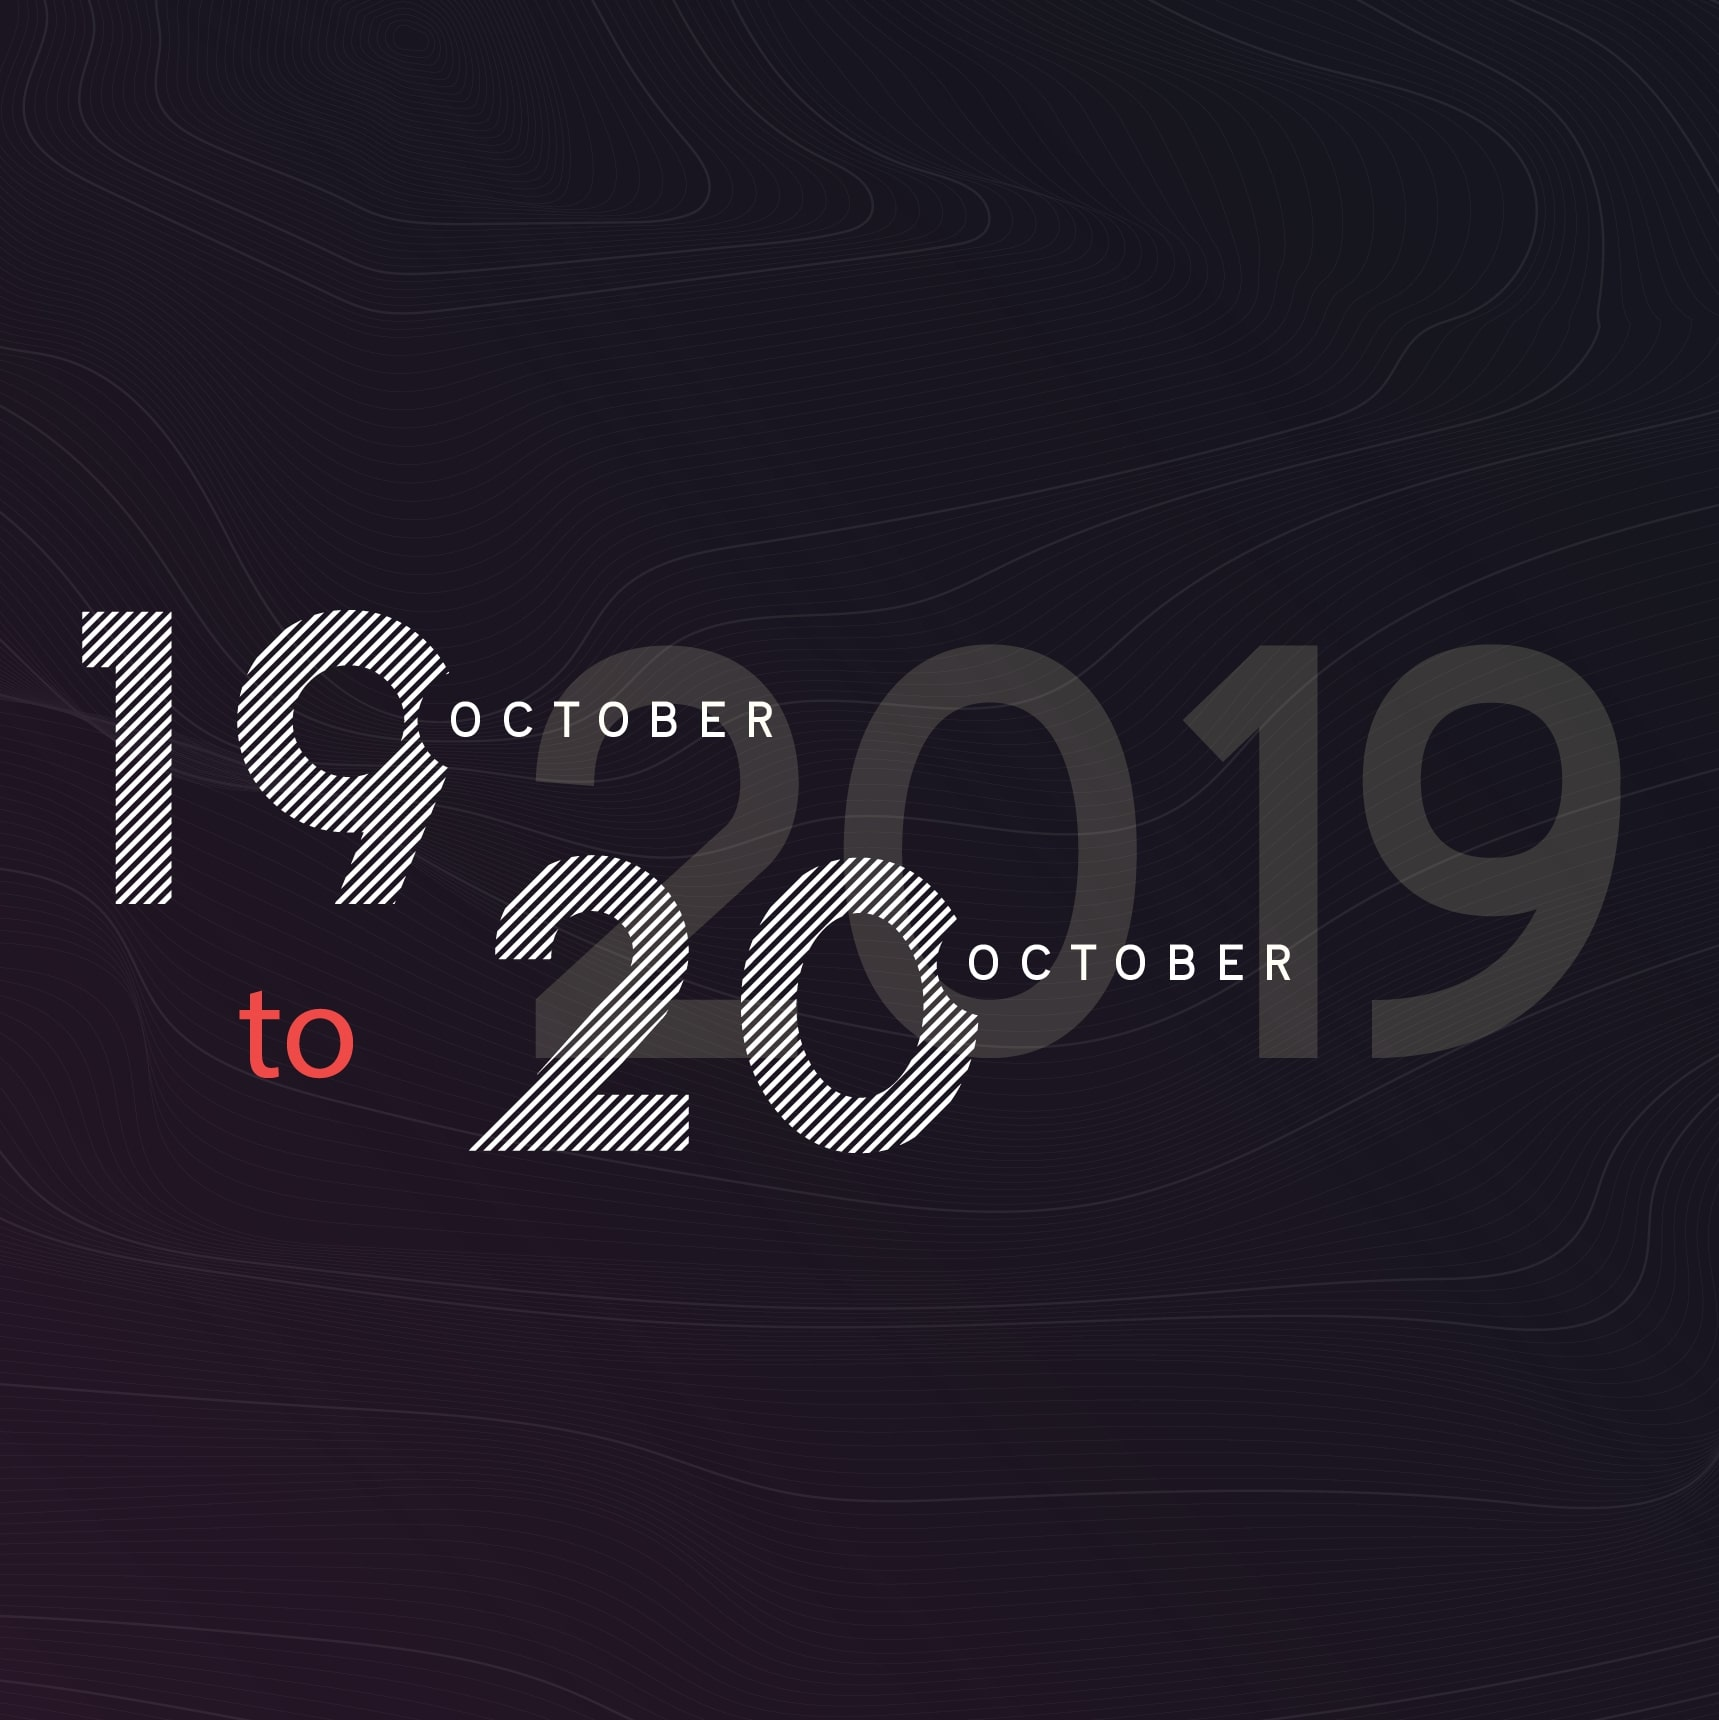
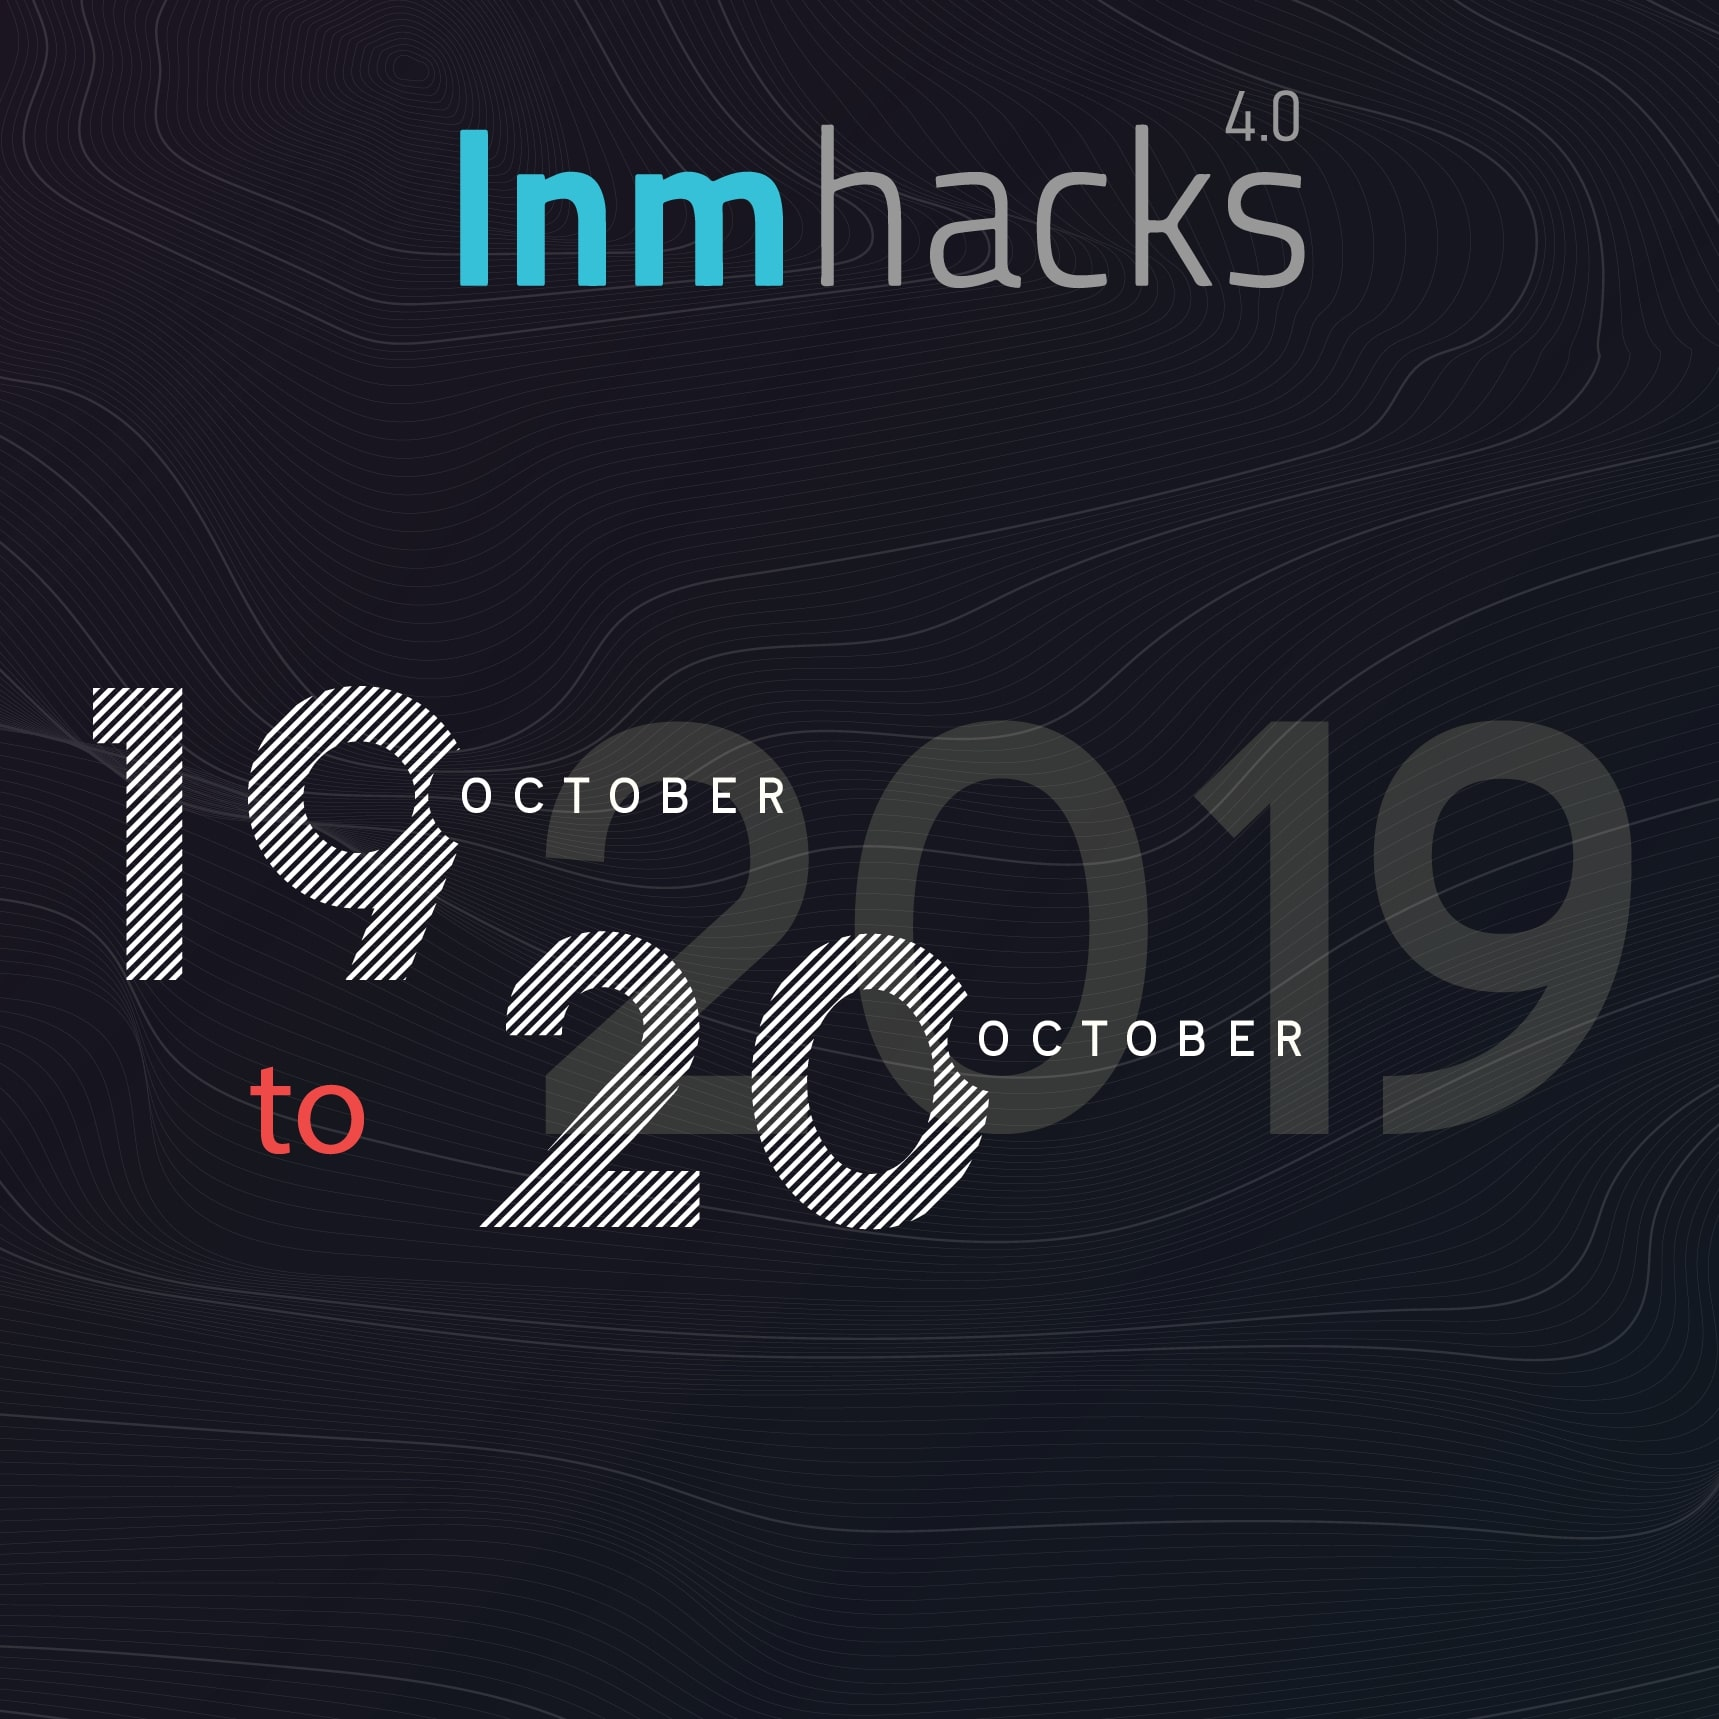
media sponsors add || title image change

Changed region(s): [[0.0308, 0.3392, 0.9558, 0.74], [0.2467, 0.0308, 0.7708, 0.185]]

diff --git a/index.html b/index.html
@@ -71,7 +71,7 @@
   ============================-->
     <section id="intro">
         <div class="intro-container wow fadeIn" style="">
-            <h1 class="mb-4 pb-0 "><img id="myImg" class="head" src="img/DateReveal.jpg">
+            <h1 class="mb-4 pb-0 "><img id="myImg" class="head" src="img/datereveal-web-01.jpg">
             <img id="myImg_1" class="head" src="img/datereveal-mob-02.jpg" ></h1>
           <a href="https://skillenza.com/challenge/lnmhacks4" target="_blank">  <button class="btn buy-tickets" >Register</button></a>
 
@@ -679,7 +679,7 @@
                                     <h4 class="spo_title" >Powered By</h4>
                                     <a href="https://www.facebook.com/groups/DevCJaipur" target="_blank"> 
                                         <div class="supporter-logo">
-                                            <img src="img/sponsors/Copy of FB_DevC_Localized_Event_Header.png" class="img-fluid" alt="">
+                                            <img src="img/sponsors/Copy of Fb_DevC_logo black and blue.pngCopy of Fb_DevC_logo black and blue.png" class="img-fluid" alt="">
                                         </div>
                                     </a>
 
@@ -698,8 +698,21 @@
                             </div>
 
                     </div>
+                    <div class="row " style="text-align: center">
+                      
+                        <div class="col-lg-6 col-md-6 offset-lg-3 offset-md-3">
+                                <h4 class="spo_title" >Open-Source Partner</h4>
+                                <a href="https://github.com" target="_blank">
+                                    <div class="supporter-logo">
+                                     <img src="img/sponsors/github_PNG20.png" class="img-fluid" alt="">
+                                    </div>
+                                </a>
+                        </div>
+
+                </div>
+
                     <div class="row" style="text-align: center">
-                            <div class="col-lg-4 col-md-4 ">
+                            <div class="col-lg-6 col-md-6 ">
                                 <h4 class="spo_title">Cloud Partner</h4>
                                 <a href="https://www.digitalocean.com/" target="_blank">
                                     <div class="supporter-logo">
@@ -707,13 +720,8 @@
                                     </div>
                                 </a>
                             </div>
-                            <div class="col-lg-4 col-md-4 ">
-                                <h4 class="spo_title">Media Partner</h4>
-                                <a href="http://dubeat.com/" target="_blank"><div class="supporter-logo">
-                                        <img src="img/sponsors/dub.png" class="img-fluid" alt="">
-                                    </div></a>
-                            </div>
-                            <div class="col-lg-4 col-md-4 ">
+                            
+                            <div class="col-lg-6 col-md-6 ">
                                 <h4 class="spo_title" >Outreach Partner</h4>
                                 <a href="https://zubi.io/" target="_blank">
                                 <div class="supporter-logo">
@@ -724,36 +732,68 @@
                     </div>
                     <div class="row" style="text-align: center">
                         <div class="col-lg-6 col-md-6 offset-lg-3 offset-md-3">
-                            <h4 class="spo_title" >General Partner</h4>
+                            <h4 class="spo_title" >Media Partner</h4>
                             
                     </div>
                     </div>
                     <div class="row">
                             
-                            <div class="col-lg-4 col-md-4 col-xs-4">
-                                <a href="https://www.jetbrains.com/" target="_blank">
-                                        <div class="supporter-logo">
-                                            <img src="img/sponsors/jetbrains.png" class="img-fluid" alt="">
-                                        </div>
-                                </a>
-                            </div>
-                            <div class="col-lg-4 col-md-4 col-xs-4">
-                                <a href="https://www.bugsee.com/" target="_blank">
-                                            <div class="supporter-logo">
-                                                <img src="img/sponsors/Bugsee Logo.png" class="img-fluid" alt="">
-                                            </div>
-                                </a>
-                            </div>
-                            <div class="col-lg-4 col-md-4 col-xs-4">
-                                <a href="https://www.cloudflare.com/" target="_blank">
+                        <div class="col-lg-4 col-md-4 col-xs-4">
+                            <a href="http://dubeat.com/" target="_blank">
                                     <div class="supporter-logo">
-                                        <img src="img/sponsors/cf-logo-v-rgb.jpg" class="img-fluid" alt="">
+                                        <img src="img/sponsors/dub.png" class="img-fluid" alt="">
                                     </div>
-                                </a>
+                            </a>
+                        </div>
+                        <div class="col-lg-4 col-md-4 col-xs-4">
+                            <a href="http://www.knowafest.com/college-fests/events" target="_blank">
+                                        <div class="supporter-logo">
+                                            <img src="img/sponsors/Logo_300_100.png" class="img-fluid" alt="">
+                                        </div>
+                            </a>
+                        </div>
+                        <div class="col-lg-4 col-md-4 col-xs-4">
+                            <a href="https://ohcampus.com/" target="_blank">
+                                <div class="supporter-logo">
+                                    <img src="img/sponsors/OhCampus New Logo.jpg" class="img-fluid" alt="">
                                 </div>
-                           
+                            </a>
+                            </div>
+                       
 
-                    </div>
+                </div>
+                <div class="row" style="text-align: center">
+                    <div class="col-lg-6 col-md-6 offset-lg-3 offset-md-3">
+                        <h4 class="spo_title" >General Partner</h4>
+                        
+                </div>
+
+                    <div class="row">
+                            
+                        <div class="col-lg-4 col-md-4 col-xs-4">
+                            <a href="https://www.jetbrains.com/" target="_blank">
+                                    <div class="supporter-logo">
+                                        <img src="img/sponsors/jetbrains.png" class="img-fluid" alt="">
+                                    </div>
+                            </a>
+                        </div>
+                        <div class="col-lg-4 col-md-4 col-xs-4">
+                            <a href="https://www.bugsee.com/" target="_blank">
+                                        <div class="supporter-logo">
+                                            <img src="img/sponsors/Bugsee Logo.png" class="img-fluid" alt="">
+                                        </div>
+                            </a>
+                        </div>
+                        <div class="col-lg-4 col-md-4 col-xs-4">
+                            <a href="https://www.cloudflare.com/" target="_blank">
+                                <div class="supporter-logo">
+                                    <img src="img/sponsors/cf-logo-v-rgb.jpg" class="img-fluid" alt="">
+                                </div>
+                            </a>
+                            </div>
+                       
+
+                </div>
                   
                     <div class="row">
                           

diff --git a/css/style.css b/css/style.css
@@ -1808,7 +1808,8 @@ font-weight: 550
     border-radius: 50px;
     text-align: center;
     font-weight: 550;
-    letter-spacing: 1.5px
+    letter-spacing: 1.5px;
+    width: 10% !important
   }
   .btn:hover{
       background-color: transparent;
@@ -1817,6 +1818,7 @@ font-weight: 550
   @media (max-width: 768px) {
     .intro-container .btn {
        
-        top: 50%;
+        top: 60%;
+        width: 30% !important
     }
 }
